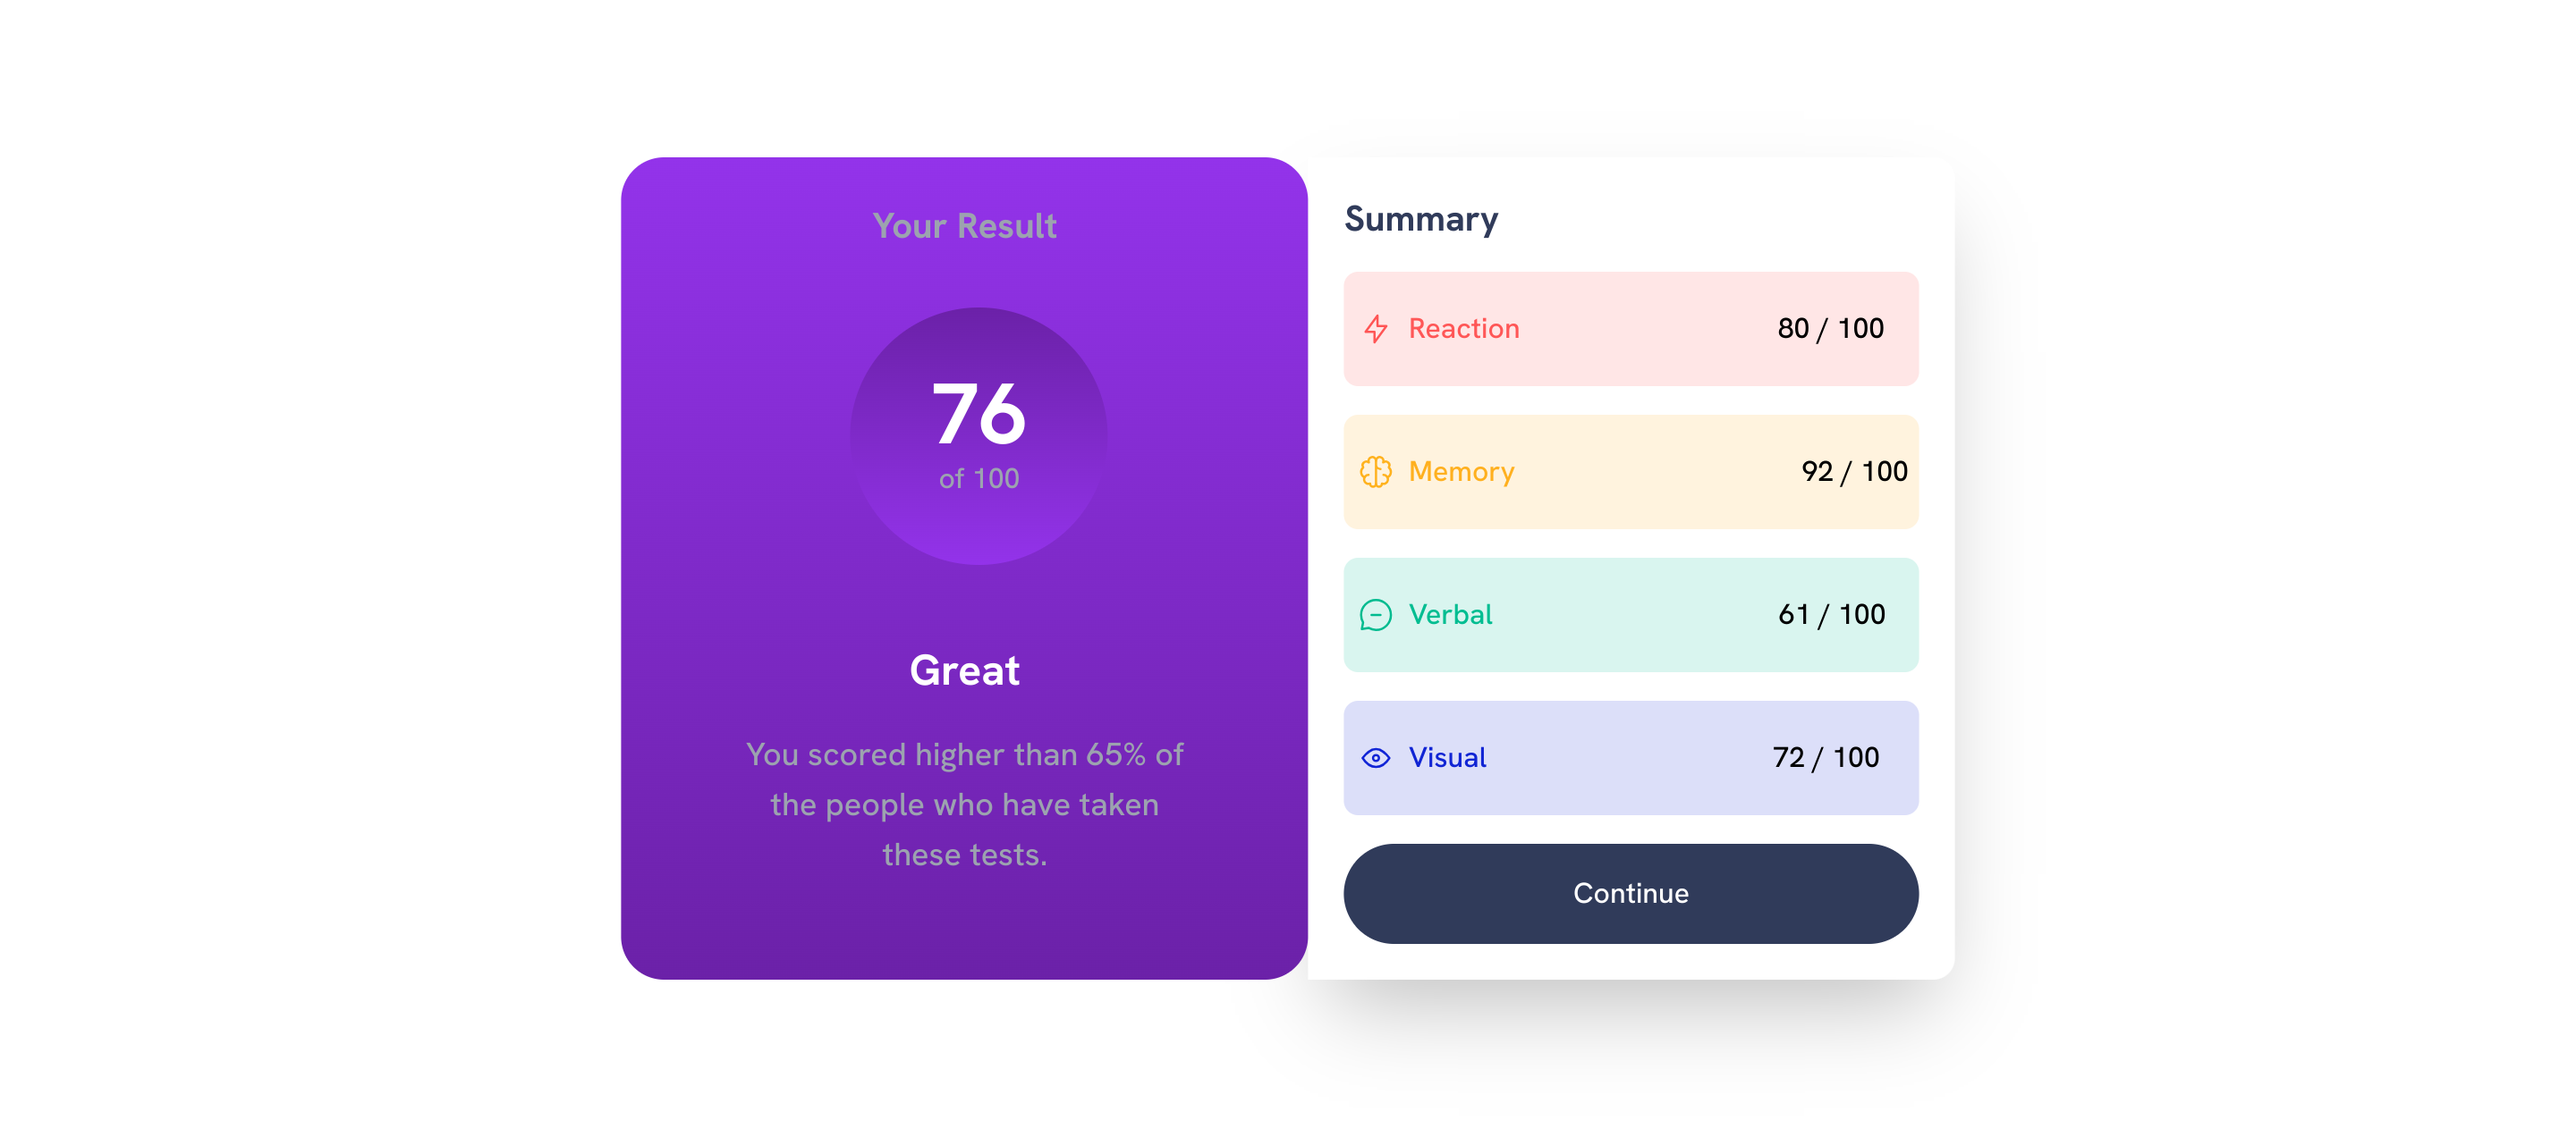
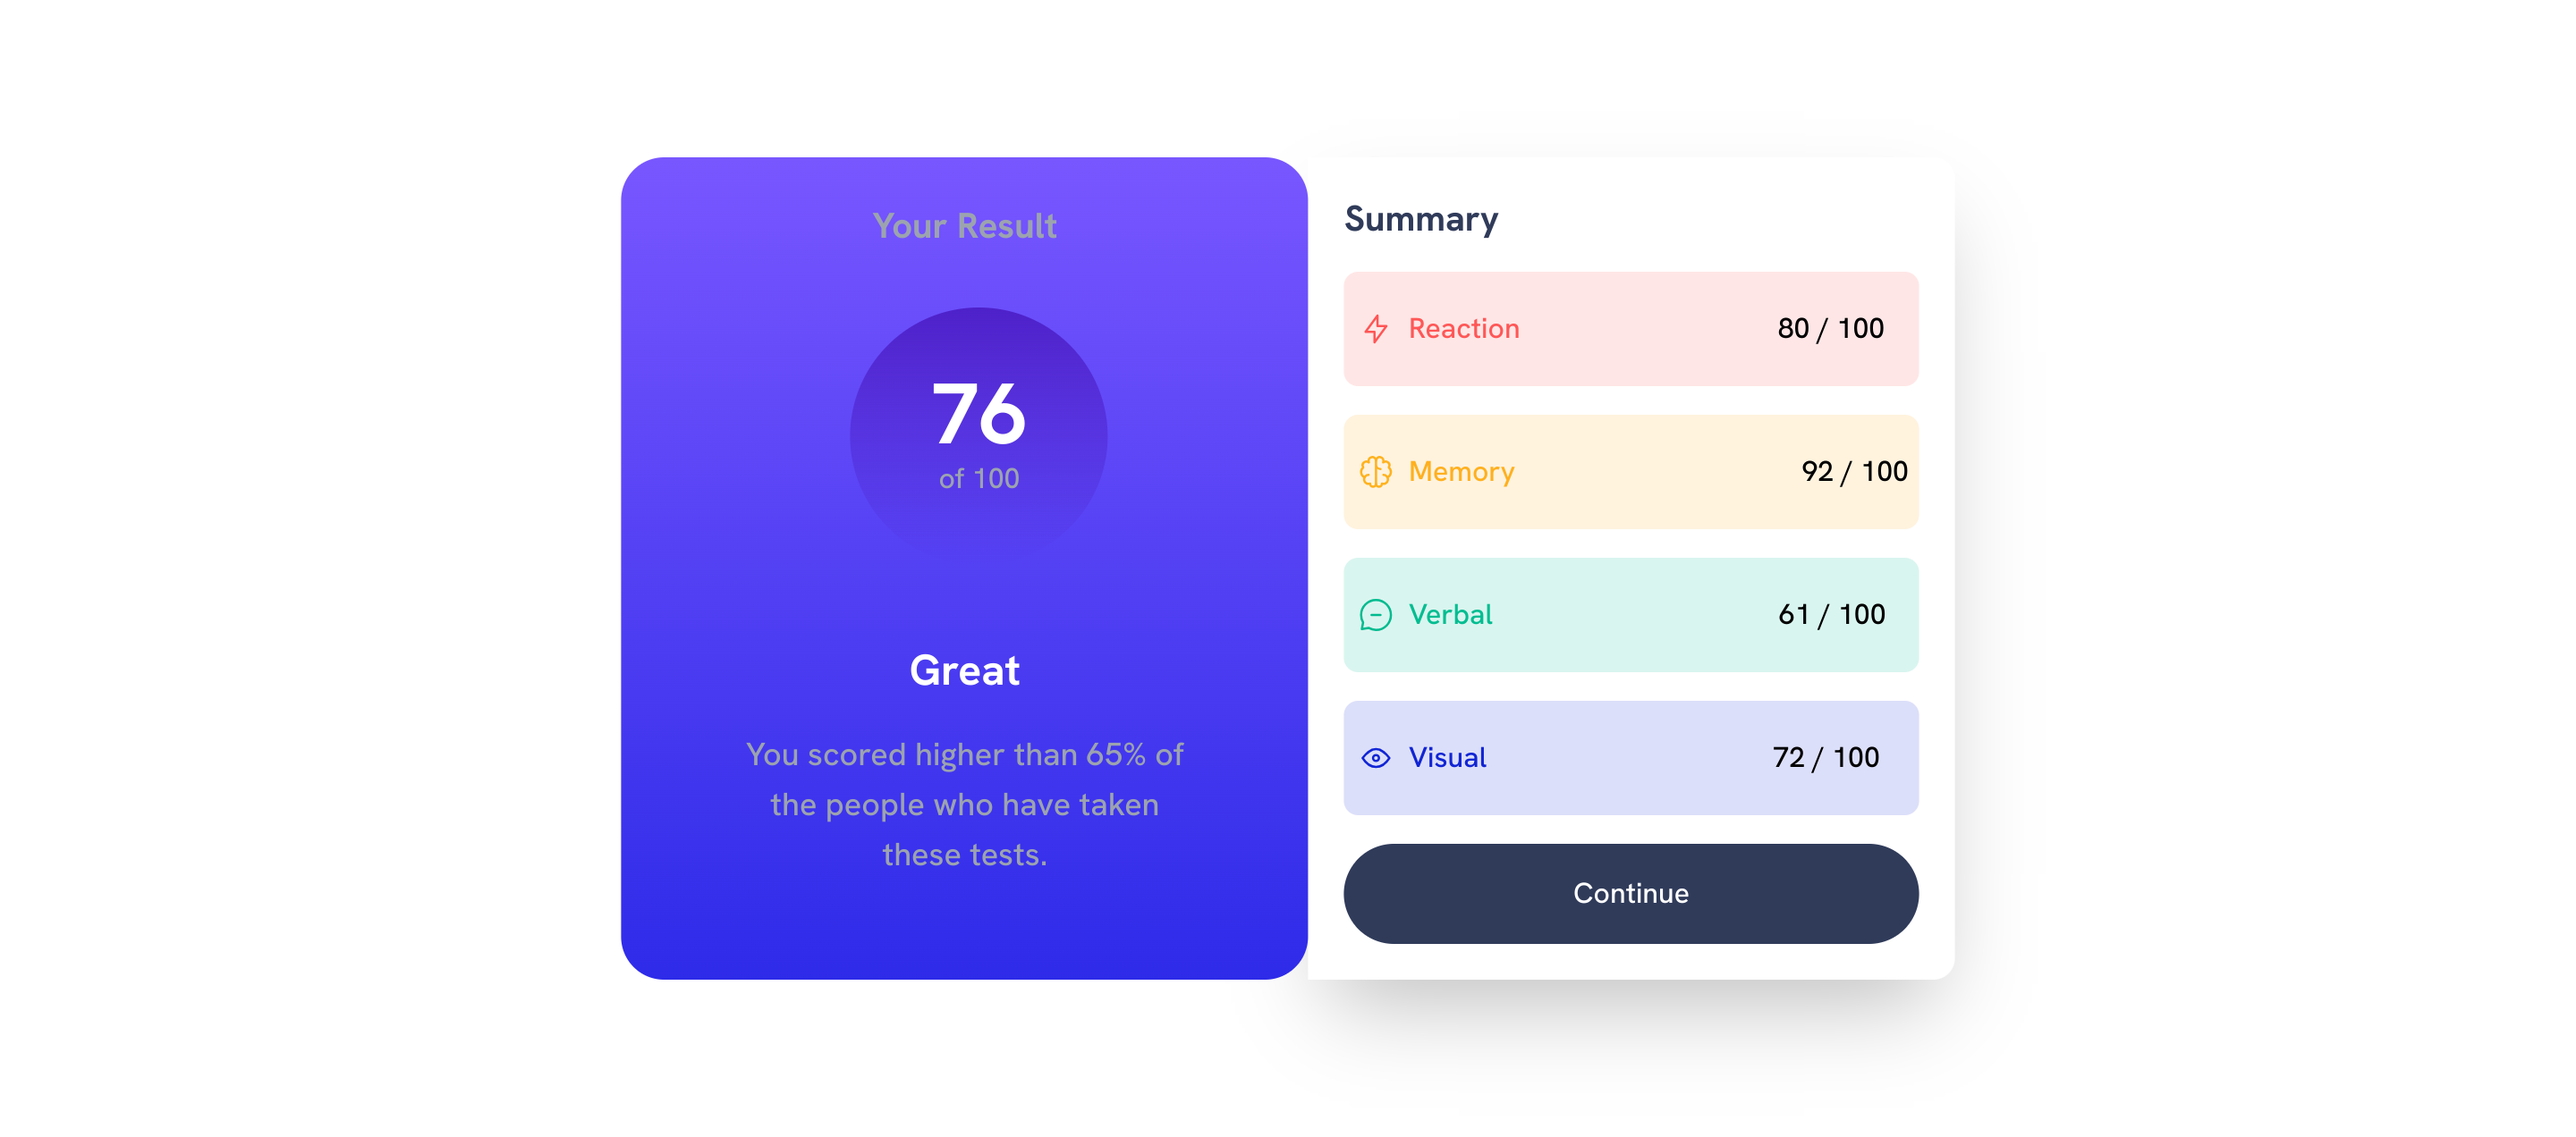
Changed the gradient

Changed region(s): [[0.2188, 0.1226, 0.5312, 0.8892]]

diff --git a/results-summary-component-main/public/index.html b/results-summary-component-main/public/index.html
@@ -14,14 +14,14 @@
   <main class="md:flex">
 
     <!-- purple div -->
-    <div class="bg-gradient-to-b from-purple-600 to-purple-800 text-center rounded-b-3xl md:rounded-3xl z-10">
+    <div class="bg-gradient-to-b from-slateBlue to-royalBlue text-center rounded-b-3xl md:rounded-3xl z-10">
 
       <h1 class="text-gray-400 text-lg font-bold pt-6 pb-8 md:text-xl">
         Your Result
       </h1>
       <!-- circle div -->
      
-      <div class="bg-gradient-to-b from-purple-800 to-purple-600 md:w-36 md:h-36 md:mr-28  w-32 h-32 rounded-full flex items-center justify-center ml-32">
+      <div class="bg-gradient-to-b from-violetBlue to-persianBlue md:w-36 md:h-36 md:mr-28  w-32 h-32 rounded-full flex items-center justify-center ml-32">
         <div>
           <p class="text-white text-5xl font-bold">76</p>
           <p class="text-gray-400">of 100</p>
